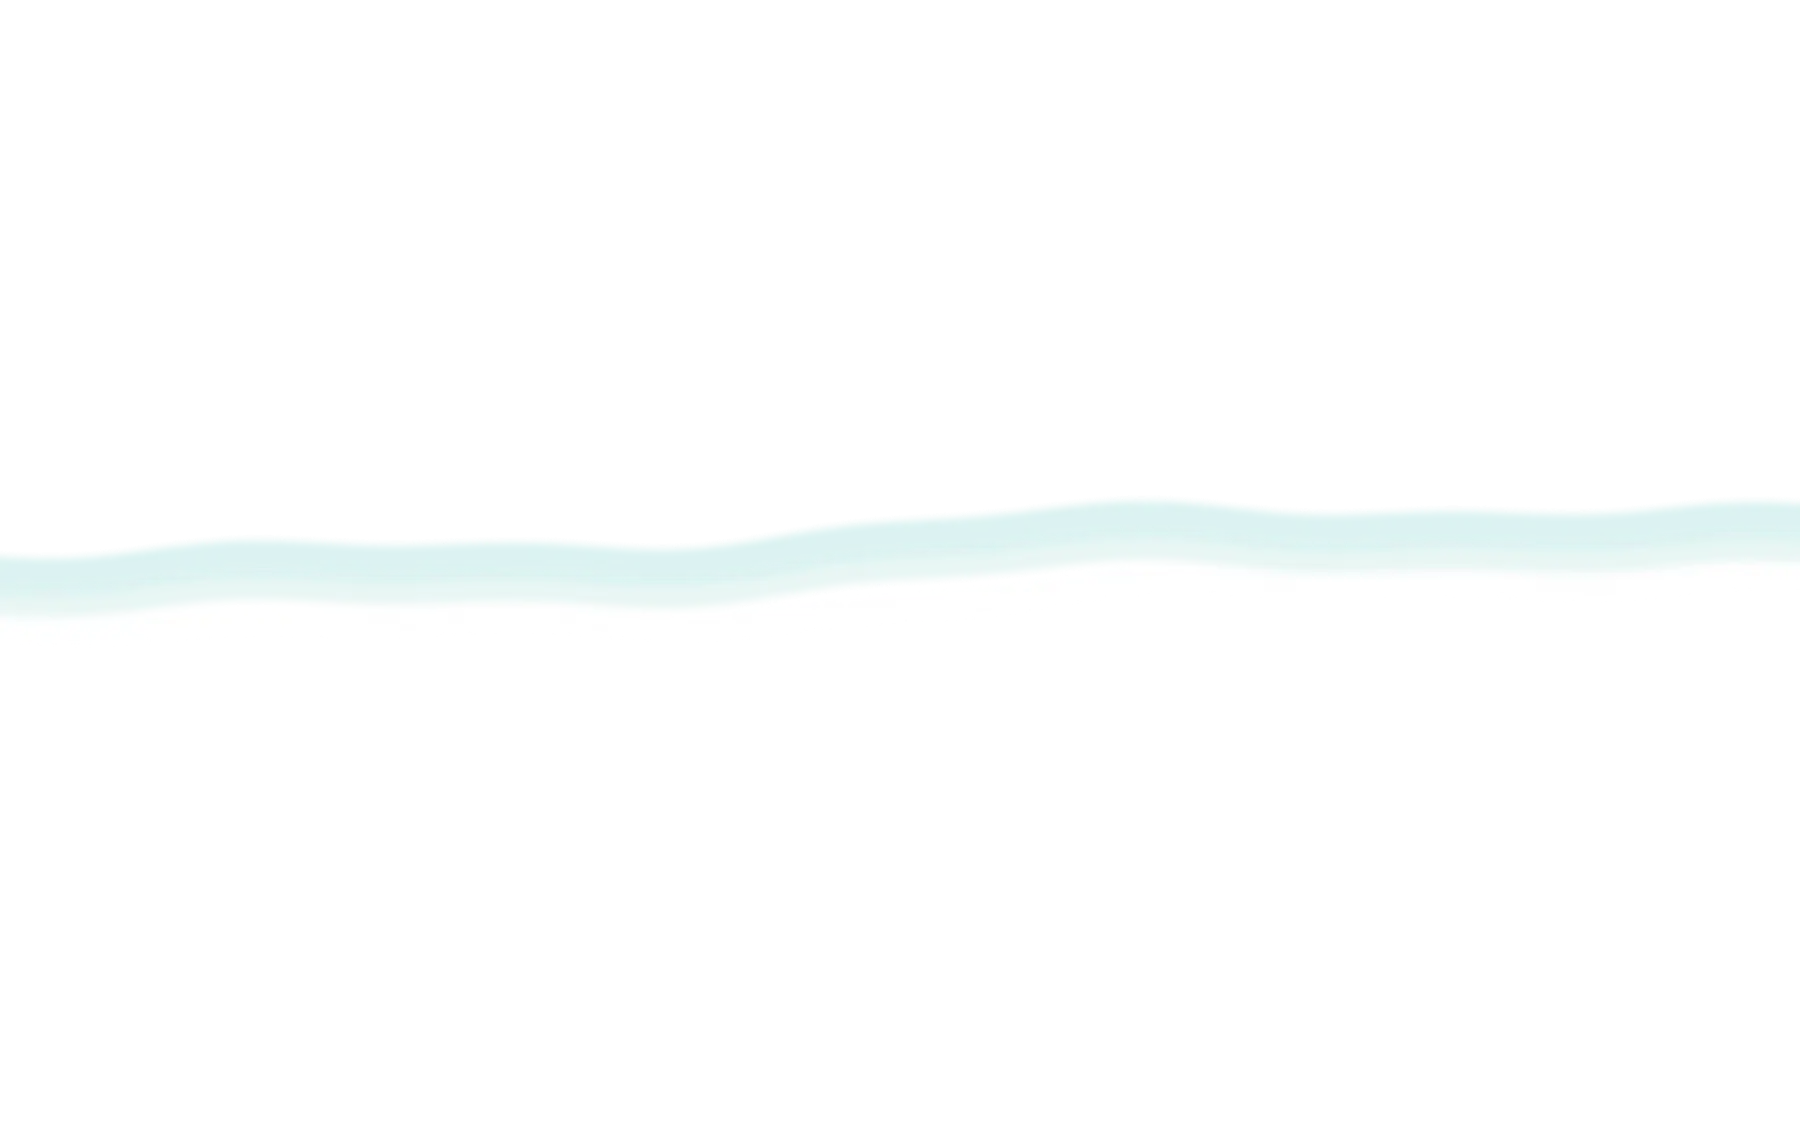
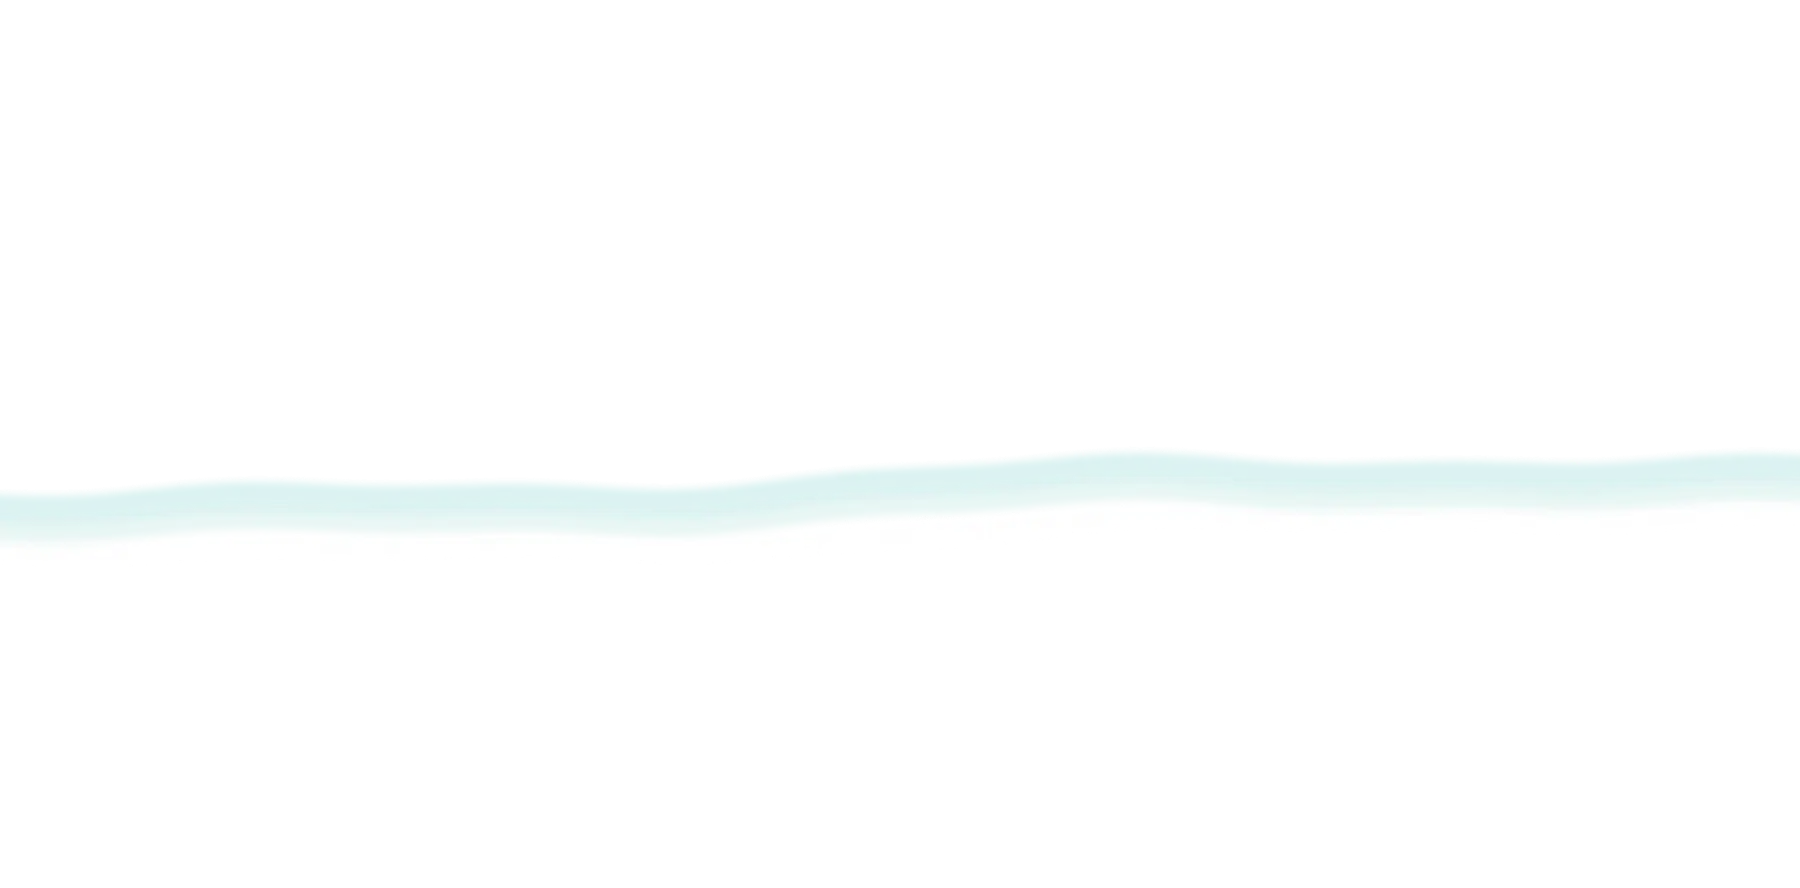
ヒーローを開いた画面に収まる高さに変更

Changed region(s): [[0.0, 0.4257, 1.0, 0.6081]]

diff --git a/assets/css/style.css b/assets/css/style.css
@@ -17,19 +17,19 @@ img{display:block;max-width:100%;height:auto}a{color:inherit;text-decoration:non
 .nav .btn{min-width:164px;height:40px;background:#fff;padding-left:24px}.nav .btn:hover{background:var(--teal)}
 .burger{display:none;background:none;border:0;width:40px;height:40px;padding:8px;cursor:pointer}.burger span{display:block;height:1.5px;background:#fff;margin:8px 0;transition:transform .3s}
 .sp{display:none}
-.hero{position:relative;overflow:hidden;height:62.5vw;min-height:560px;background:#CFEFEF}
+.hero{position:relative;overflow:hidden;height:49.3vw;min-height:440px;background:#CFEFEF}
 .hero__bg,.hero__layer,.hero__lace{position:absolute;inset:0;width:100%;height:100%;object-fit:cover}.hero__bg{translate:0 var(--py,0)}.hero__lace{animation:ebb 7s ease-in-out infinite alternate}.hero__lace--2{animation:ebb2 9.5s ease-in-out infinite alternate;opacity:.75}@keyframes ebb{from{transform:translateY(1.1%)}to{transform:translateY(-1.5%)}}@keyframes ebb2{from{transform:translate(-1%,-1.9%)}to{transform:translate(1%,.9%)}}
 .hero picture{position:static}.hero__bg{animation:zoom 14s ease-out both}.hero__layer{animation:tide 2.2s .25s cubic-bezier(.2,.75,.2,1) both}
 @keyframes zoom{from{transform:scale(1.07)}to{transform:scale(1)}}
 @keyframes tide{from{transform:translateY(7%);opacity:.2}to{transform:none;opacity:1}}
 @keyframes up{from{opacity:0;transform:translateY(20px)}to{opacity:1;transform:none}}
-.hero__t1{position:absolute;left:5vw;top:7vw;color:#fff;animation:up 1.2s .4s both}
+.hero__t1{position:absolute;left:5vw;top:max(6.2vw,78px);color:#fff;animation:up 1.2s .4s both}
 .hero h1{font-size:clamp(12px,1.04vw,18px);letter-spacing:.1em;line-height:1.5;margin-bottom:.9vw}
-.hero__copy{font-size:clamp(28px,3.06vw,56px);font-weight:600;line-height:1.3;letter-spacing:.07em}
-.hero__t2{position:absolute;left:5vw;top:39.6vw;animation:up 1.2s 1.1s both}
-.hero__sub{font-size:clamp(15px,1.39vw,25px);font-weight:600;letter-spacing:.1em;line-height:1.6;margin-top:.7vw}
-.hero__lead{font-size:clamp(11.5px,.98vw,17px);line-height:1.78;margin:.9vw 0 1.3vw}
-.btn--hero{background:var(--teal);color:#fff;min-width:200px}.btn--hero:hover{background:var(--deep);border-color:var(--deep);color:#fff}
+.hero__copy{font-size:clamp(26px,2.92vw,54px);font-weight:600;line-height:1.3;letter-spacing:.07em}
+.hero__t2{position:absolute;left:5vw;top:33.6vw;animation:up 1.2s 1.1s both}
+.hero__sub{font-size:clamp(14px,1.32vw,24px);font-weight:600;letter-spacing:.1em;line-height:1.6;margin-top:.7vw}
+.hero__lead{font-size:clamp(11.5px,.97vw,17px);line-height:1.78;margin:0 0 1.1vw}
+.btn--hero{background:var(--teal);color:#fff;min-width:200px;height:clamp(40px,3.2vw,52px)}.btn--hero:hover{background:var(--deep);border-color:var(--deep);color:#fff}
 .hd .logo{color:#fff}.nav{color:#fff}.nav .btn{background:#fff0;border-color:#fff;color:#fff}.nav .btn:hover{background:#fff;color:var(--teal)}
 .vhead{position:absolute;right:62px;top:96px;writing-mode:vertical-rl;font-size:26px;letter-spacing:.14em;color:var(--teal);line-height:1}
 .vhead span{position:absolute;top:0;right:44px;font:500 12px/1 var(--en);letter-spacing:.27em;color:#6CA9A3}
@@ -85,7 +85,7 @@ figure{margin:0}figcaption{font:500 12px/2 var(--en);letter-spacing:.27em;color:
   .hd{padding:24px 24px 0}.logo b{font-size:24px}.burger{display:block;position:relative;z-index:40}
   .nav{position:fixed;inset:0;background:#fffffff5;flex-direction:column;justify-content:center;gap:26px;font-size:16px;opacity:0;visibility:hidden;transition:opacity .3s;z-index:30}.nav.is-open{opacity:1;visibility:visible}
   .burger[aria-expanded=true] span{background:var(--deep)}.burger[aria-expanded=true] span:first-child{transform:translateY(5px) rotate(20deg)}.burger[aria-expanded=true] span:last-child{transform:translateY(-5px) rotate(-20deg)}
-  .sp{display:inline}.hero{height:218vw;min-height:0}.hero__t1{left:24px;top:20vw}.hero h1{font-size:12.5px;margin-bottom:6px}.hero__copy{font-size:min(5.6vw,22px);letter-spacing:.02em;white-space:nowrap}.hero__t2{left:24px;right:24px;top:174vw;bottom:4vw;display:flex;flex-direction:column}.hero__sub{font-size:min(3.6vw,14px);letter-spacing:.02em;white-space:nowrap;margin-top:2px}.hero__lead{font-size:12.5px;letter-spacing:0;margin:0}.pcs{display:none}.btn--hero{margin-top:auto;width:100%}.nav{color:var(--ink)}.nav .btn{border-color:var(--teal);color:var(--teal)}
+  .sp{display:inline}.hero{height:218vw;min-height:0}.btn--hero{height:46px}.hero__t1{left:24px;top:20vw}.hero h1{font-size:12.5px;margin-bottom:6px}.hero__copy{font-size:min(5.6vw,22px);letter-spacing:.02em;white-space:nowrap}.hero__t2{left:24px;right:24px;top:174vw;bottom:4vw;display:flex;flex-direction:column}.hero__sub{font-size:min(3.6vw,14px);letter-spacing:.02em;white-space:nowrap;margin-top:2px}.hero__lead{font-size:12.5px;letter-spacing:0;margin:0}.pcs{display:none}.btn--hero{margin-top:auto;width:100%}.nav{color:var(--ink)}.nav .btn{border-color:var(--teal);color:var(--teal)}
   .vhead{position:static;writing-mode:horizontal-tb;font-size:24px;letter-spacing:.1em;line-height:1.5}.vhead span{position:static;display:block;font-size:11px;margin-top:4px}
   .about__body br{display:none}.about{display:flex;flex-direction:column;align-items:stretch;gap:24px;padding:60px 24px 90px}.about .vhead{order:-1}.about img{height:300px}.about__body .btn{width:100%}
   .gallery{padding:0 0 30px;display:flex;flex-direction:column;gap:20px}.gallery .vhead{order:-1;padding:30px 24px 0}.gallery__wrap{width:100%}.loop img{width:170px;height:150px}

diff --git a/index.html b/index.html
@@ -10,7 +10,7 @@
 <link rel="preconnect" href="https://fonts.googleapis.com">
 <link rel="preconnect" href="https://fonts.gstatic.com" crossorigin>
 <link rel="stylesheet" href="https://fonts.googleapis.com/css2?family=Shippori+Mincho:wght@500;600&family=Cormorant+Garamond:wght@500;600&display=swap">
-<link rel="stylesheet" href="assets/css/style.css?v=12">
+<link rel="stylesheet" href="assets/css/style.css?v=14">
 </head>
 <body>
 <header class="hd" id="top">
@@ -28,10 +28,10 @@
 
 <main>
 <section class="hero">
-  <picture><source media="(max-width:900px)" srcset="assets/img/h3-sea-sp.webp?v=2"><img class="hero__bg" src="assets/img/h3-sea.webp?v=2" alt="明るい水色の沖縄の海" width="2160" height="1350"></picture>
-  <picture><source media="(max-width:900px)" srcset="assets/img/h3-lace-sp.webp"><img class="hero__lace" src="assets/img/h3-lace.webp" alt="" width="2160" height="1350"></picture>
-  <picture><source media="(max-width:900px)" srcset="assets/img/h3-lace-sp.webp"><img class="hero__lace hero__lace--2" src="assets/img/h3-lace.webp" alt="" width="2160" height="1350"></picture>
-  <picture><source media="(max-width:900px)" srcset="assets/img/h3-wall-sp.webp"><img class="hero__layer" src="assets/img/h3-wall.webp" alt="波打ち際の先の白い壁に飾った、海のレジンアートの作品" width="2160" height="1350"></picture>
+  <picture><source media="(max-width:900px)" srcset="assets/img/h3-sea-sp.webp?v=2"><img class="hero__bg" src="assets/img/h3-sea.webp?v=10" alt="明るい水色の沖縄の海" width="2160" height="1065"></picture>
+  <picture><source media="(max-width:900px)" srcset="assets/img/h3-lace-sp.webp"><img class="hero__lace" src="assets/img/h3-lace.webp?v=10" alt="" width="2160" height="1065"></picture>
+  <picture><source media="(max-width:900px)" srcset="assets/img/h3-lace-sp.webp"><img class="hero__lace hero__lace--2" src="assets/img/h3-lace.webp?v=10" alt="" width="2160" height="1065"></picture>
+  <picture><source media="(max-width:900px)" srcset="assets/img/h3-wall-sp.webp"><img class="hero__layer" src="assets/img/h3-wall.webp?v=10" alt="波打ち際の先の白い壁に飾った、海のレジンアートの作品" width="2160" height="1065"></picture>
   <div class="hero__t1">
     <h1>海のレジンアート販売｜沖縄のアトリエ</h1>
     <p class="hero__copy">まるで、そこに海があるように。</p>
